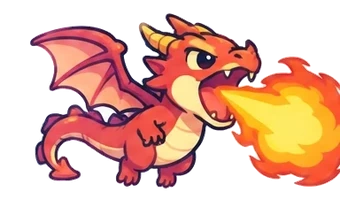
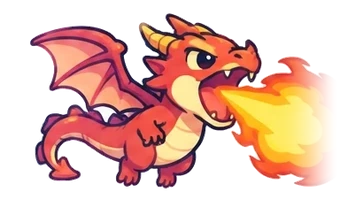
物語:BGMのつなぎ目を重ねてなめらかに・ドラゴンの炎の見切れをなおす・効果音のリスト(未公開)

Changed region(s): [[0.8529, 0.2609, 1.0, 0.8986]]

diff --git a/src/live2d/story-bgm.js b/src/live2d/story-bgm.js
@@ -1,8 +1,8 @@
 // ものがたり(ムービー)の、お話ごとの専用BGM。ゲームの BGM(music.js)と同じしくみで、ここで曲を足して、ここで鳴らす。
 // (music.js の TRACKS に、このページの中だけ曲を足す。ゲーム本体の BGM は ふやさない)
 // メロディの書きかた:"E5/4 G5/4 -/2 C6/2" = 音/長さ(ステップ。16で1小節)を、順に。"-" は休み。
-import { MusicPlayer, TRACKS } from '../music.js?v=20261116i';
-import { curve, getVolume } from '../audio.js?v=20261116i';
+import { MusicPlayer, TRACKS } from '../music.js?v=20261116j';
+import { curve, getVolume } from '../audio.js?v=20261116j';
 
 const bars = (...list) => list.map((text) => {
   let step = 0;
@@ -140,19 +140,44 @@ const TRACK_OF = {
   pro: 'story_pro', ep1: 'story_ep1', ep2: 'story_ep2', ep3: 'story_ep3', ep4: 'story_ep4', epi: 'story_epi',
 };
 
-let player = null;
-let want = null;   // ならしたい曲(音が出せるようになる前に呼ばれても、あとで鳴らす)
+// 曲のつなぎ目:2つの再生係(A・B)を、かわりばんこに使う。曲がかわるときは、前の曲を ゆっくり小さく(XFADE 秒)しながら、
+// 新しい曲を ゆっくり大きく して、重ねてつなぐ(ぶつっと切れない)。
+const XFADE = 1.8;
+let players = null;   // [A, B]
+let cur = 0;          // いま鳴らしているほう
+let curName = null;
+let want = null;      // ならしたい曲(音が出せるようになる前に呼ばれても、あとで鳴らす)
+const level = () => curve(getVolume('bgm'));
+function ramp(pl, to, sec) {
+  const g = pl.volume.gain, now = pl.ctx.currentTime;
+  g.cancelScheduledValues(now);
+  g.setValueAtTime(g.value, now);
+  g.linearRampToValueAtTime(to, now + sec);
+}
 function apply() {
-  if (!player) return;
-  player.setVolume(curve(getVolume('bgm')));
-  player.play(want);
+  if (!players) return;
+  if (want === curName) { ramp(players[cur], level(), 0.1); return; }   // 同じ曲:音の大きさだけ
+  const old = players[cur];
+  const hadOld = Boolean(curName);
+  cur ^= 1;
+  curName = want;
+  const next = players[cur];
+  if (hadOld) { ramp(old, 0, XFADE); const o = old; setTimeout(() => { if (players && o !== players[cur]) o.stop(); }, XFADE * 1000 + 200); }
+  next.volume.gain.cancelScheduledValues(next.ctx.currentTime);
+  if (want) {
+    next.volume.gain.setValueAtTime(0, next.ctx.currentTime);
+    next.play(want);
+    ramp(next, level(), hadOld ? XFADE : 0.6);
+  } else {
+    next.stop();
+  }
 }
 function start() {
-  if (player) { if (player.ctx.state !== 'running') player.ctx.resume().catch(() => {}); return; }
+  if (players) { if (players[0].ctx.state !== 'running') players[0].ctx.resume().catch(() => {}); return; }
   if (!window.AudioContext) return;
   try {
     const ctx = new AudioContext();
-    player = new MusicPlayer(ctx);
+    players = [new MusicPlayer(ctx), new MusicPlayer(ctx)];
     apply();
     if (ctx.state !== 'running') ctx.resume().catch(() => {});
   } catch { /* 音が出せなくても、ムービーは見られる */ }
@@ -160,11 +185,11 @@ function start() {
 // 画面を さわったら(ブラウザの決まり)、音を出せるようにする
 addEventListener('pointerdown', start);
 addEventListener('keydown', start);
-addEventListener('pagehide', () => { try { player?.stop(); player?.ctx.close(); } catch { /* なにもしない */ } });
+addEventListener('pagehide', () => { try { players?.forEach(p => p.stop()); players?.[0].ctx.close(); } catch { /* なにもしない */ } });
 start();   // ゲームの中から開いたときは、もう さわったあとなので、すぐ鳴る
 
 export function playStoryBgm(movieId) {
   want = TRACK_OF[movieId] ?? null;
   apply();
 }
-window.__bgm = () => ({ track: player?.name ?? null, state: player?.ctx.state ?? null, volume: getVolume('bgm') });   // 試験用
+window.__bgm = () => ({ track: curName && players ? players[cur].name : null, state: players?.[0].ctx.state ?? null, volume: getVolume('bgm') });   // 試験用

diff --git a/docs/movie-sfx-list.md b/docs/movie-sfx-list.md
@@ -1,0 +1,71 @@
+# ものがたりの効果音リスト(希望・案)
+
+いまの ものがたりには、BGM(場面ごと)だけで、効果音は まだ ありません。ほしい音を、場面ごとに リストにしました。
+「いまある音」=ゲームに すでに入っている音(`assets/audio/`、`audio.js` の SE)で、使いまわせるもの。
+「新しく」=作る(または 効果音ラボなどで 探す)もの。✔ をつけたものから、入れていきます。
+
+## 共通(どの お話にも)
+| 音 | いつ | いまある音 / 新しく |
+|---|---|---|
+| 次へ・閉じる・飛ばす ボタン | ボタンを押したとき | いまある音(`button`) |
+| ふきだし・文字が出る | 新しいセリフが出るとき | 新しく(ぽん。小さく やわらかい音) |
+| 場面が かわる | 次のコマへ行くとき | 新しく(さらっ。すこしだけ) |
+| 札(第○話)が出る | 話数の札が出る・消える | 新しく(しゃらん。巻物が ひらく音) |
+| フロリが 歩く | 歩く場面(足音) | 新しく(ぽてぽて。やわらかい足音) |
+| フロリが ぴょんと はねる | `hops` の場面 | いまある音(`floriHop`) |
+| びっくり(!マーク) | `fx_exclaim` が出るとき | 新しく(ピコン!) |
+| ひらめき(電球) | 電球が ひかるとき | いまある音(`correct` のチャイム)か 新しく(ピカーン) |
+| ハート・きらきら | ハートが のぼる場面 | 新しく(きらきら) |
+| ぷんぷん(おこりのマーク) | `fx_anger` | 新しく(ぷんぷん) |
+
+## プロローグ(7コマ)
+1. 朝の おうち:小鳥・風の やさしい環境音(新しく)。
+2. 空が まっくらに:雷・ゴゴゴ(新しく)。ドラゴンが 近づく はばたき(新しく)。
+3. 連れ去られる:ばさばさ はばたき が 遠ざかる(新しく)。
+4. お城の中:ろうそくの ぱちぱち・遠くの 風(新しく)。
+5. 「任せて!」:決意の ちいさな ジャーン(新しく)。
+6. 冒険が始まる:歩く足音(共通)。
+7. タイトル:タイトルの ジャーン(新しく。ゲームの `opening` に近い音でも可)。
+
+## 第1話 ネズミ(5コマ)
+1. 森:鳥の声(新しく)。第1話の札(共通)。
+2. ネズミが でる:ちょろちょろ 走る音(新しく)・びっくり(共通)。
+3. 追いかける:走る足音・ネズミの チュー(新しく)。
+4. 捕まえた:ぺしっ(衝撃・新しく)・ネズミが 目をまわす ぴよぴよ(新しく)・帽子を取り返す ぽんっ(新しく)。
+5. ハート:きらきら(共通)。
+
+## 第2話 カエル(5コマ)
+1. 沼:カエルの けろけろ・水の ぴちゃぴちゃ(新しく)。
+2. カエルが とびだす:ぴょーん(新しく)・びっくり(共通)。
+3. 逃げ回る:ぴょんぴょん・けろけろ わらい(新しく)・ぷんぷん(共通)。
+4. ひらめきの ジャンプ:ぴょん ×4(いまある音)・つかまえた ぱしっ(新しく)・カエルが 目をまわす(新しく)。
+5. ハート:きらきら(共通)。
+
+## 第3話 決戦の前に(6コマ)
+1. お城の門:重い 扉・サソリの かちゃかちゃ(新しく)・びっくり(共通)。
+2. ひらめき えいっ:ひらめき(共通)・どーん 衝撃・サソリが 飛ばされる(新しく)。
+3. やった!:ファンファーレ(新しく。`levelup` に近い音でも可)。
+4. (新) 門の奥へ:門が ぎぃ…と開く音・足音(新しく)。
+5. 警告!:警告の サイレン・ドラゴンの 遠い 咆哮(新しく)。
+6. 「ドラゴン!」:決意の ジャーン(新しく)。
+
+## 第4話 ドラゴンと最後の戦い(6コマ)
+1. 炎:ドラゴンの 咆哮 ガオー・炎の ごおおお ×2(新しく)・フロリが ひらりと かわす(新しく)。
+2. ひらめいた:ひらめき ピカーン(共通)。
+3. ひらめきアターック:ひらめき ×2・どーん 衝撃 ×2(新しく)。
+4. 参った〜:ドラゴンが 飛んでいく ひゅるるる(新しく)・カギが ちゃりーん と 落ちる(新しく)。
+5. カギを拾った:ちゃりん・やったー ファンファーレ(新しく)。
+6. お城へ:足音(共通)。
+
+## エンディング(6コマ)
+1. 「お待たせ!」:足音・牢屋の ゆれる がしゃがしゃ(新しく)。
+2. カギで開ける:かちゃり・ぎぃ…・牢屋が 開く(新しく)。
+3. 「ありがとう」:やさしい ハープの きらきら(新しく)。
+4. 朝の野原:小鳥・風(新しく)・家族が はしゃぐ ぴょん(いまある音)。
+5. ハート・きらきら:きらきら(共通)。
+6. おしまい:おしまいの ジャーン(新しく)。
+
+## 入れるときの方針(案)
+- まず「共通」と、いまある音で足りるもの(ボタン・ぴょん・ひらめき)から入れる。
+- 音量は、設定の「効果音」のつまみに合わせる(`se`)。BGM より 小さめ。
+- 新しく 作る音は、効果音ラボ などの 利用できる素材を探すか、ブラウザの中で作る(WebAudio)。素材を使うときは、スタッフクレジットに 書く。

diff --git a/docs/decisions.md b/docs/decisions.md
@@ -1602,3 +1602,8 @@ scheme.md の「未定の事項」を決めたらここに追記する。
 - 着せ替えの一番上の★の説明「レジェンド」:光る(ぼんやりした影)をやめて、ほかと同じ ふつうの枠(色だけピンク)に。
 - 新しい飾りをつけたとき(「新しい飾りをゲット」の「つける」ボタン)の、ピンポン(せいかいのチャイム)を消した(きらっ、という音は残した)。
 - 版番号 20261116i。耳では確かめていない。
+
+## その135(2026-11-16、公開していない)ものがたりのBGMのつなぎ目・炎の見切れ・効果音リスト(B story-movie)
+- **BGMのつなぎ目**:曲がかわるとき、前の曲を1.8秒かけて小さく・新しい曲を1.8秒かけて大きく、重ねてつなぐ(`story-bgm.js`。再生係を2つ、かわりばんこに使う)。ぶつっと切れない。
+- **第4話の炎の見切れ**:ドラゴンの絵(`dragon_4.webp`、使っていない `dragon_1.webp` も)は、炎が絵のはしで四角く切れていた。炎のはしを、やわらかく うすれるようにした(絵そのものの透明度。ファイル名は同じ)。
+- **ものがたりの効果音**:ほしい音を、場面ごとにリスト化した(`docs/movie-sfx-list.md`)。まだ入れていない。どれから入れるか、利用者に確認する。
